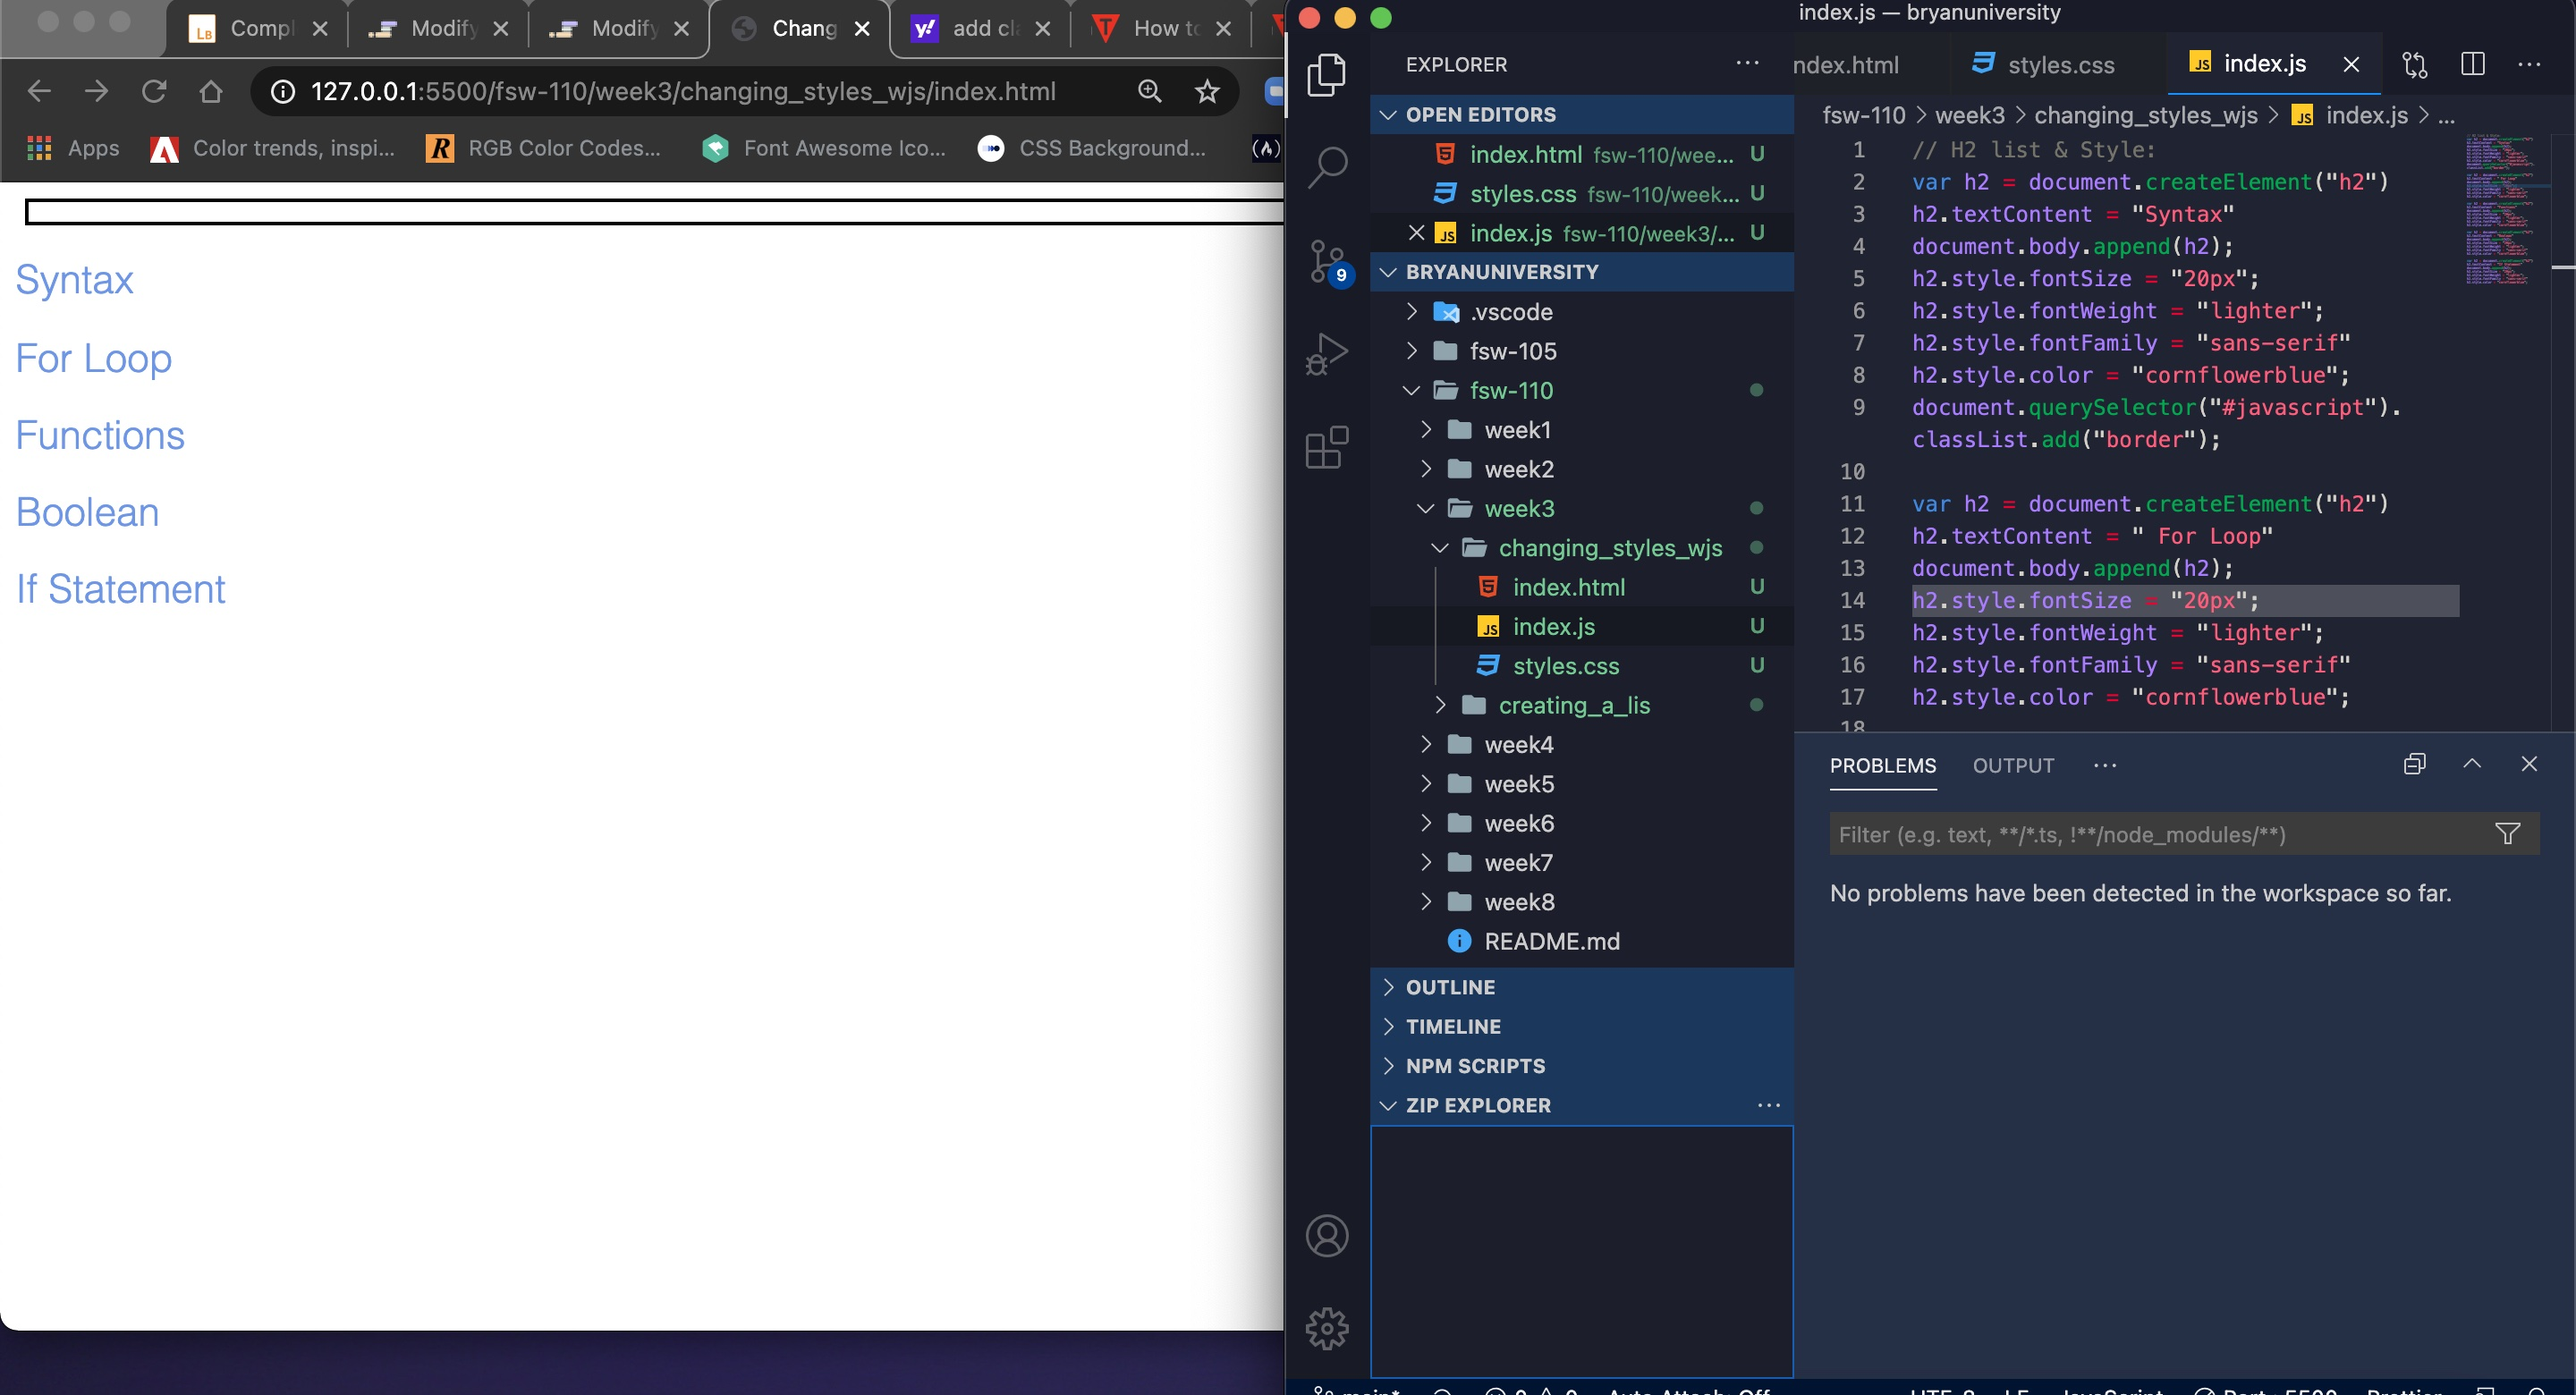
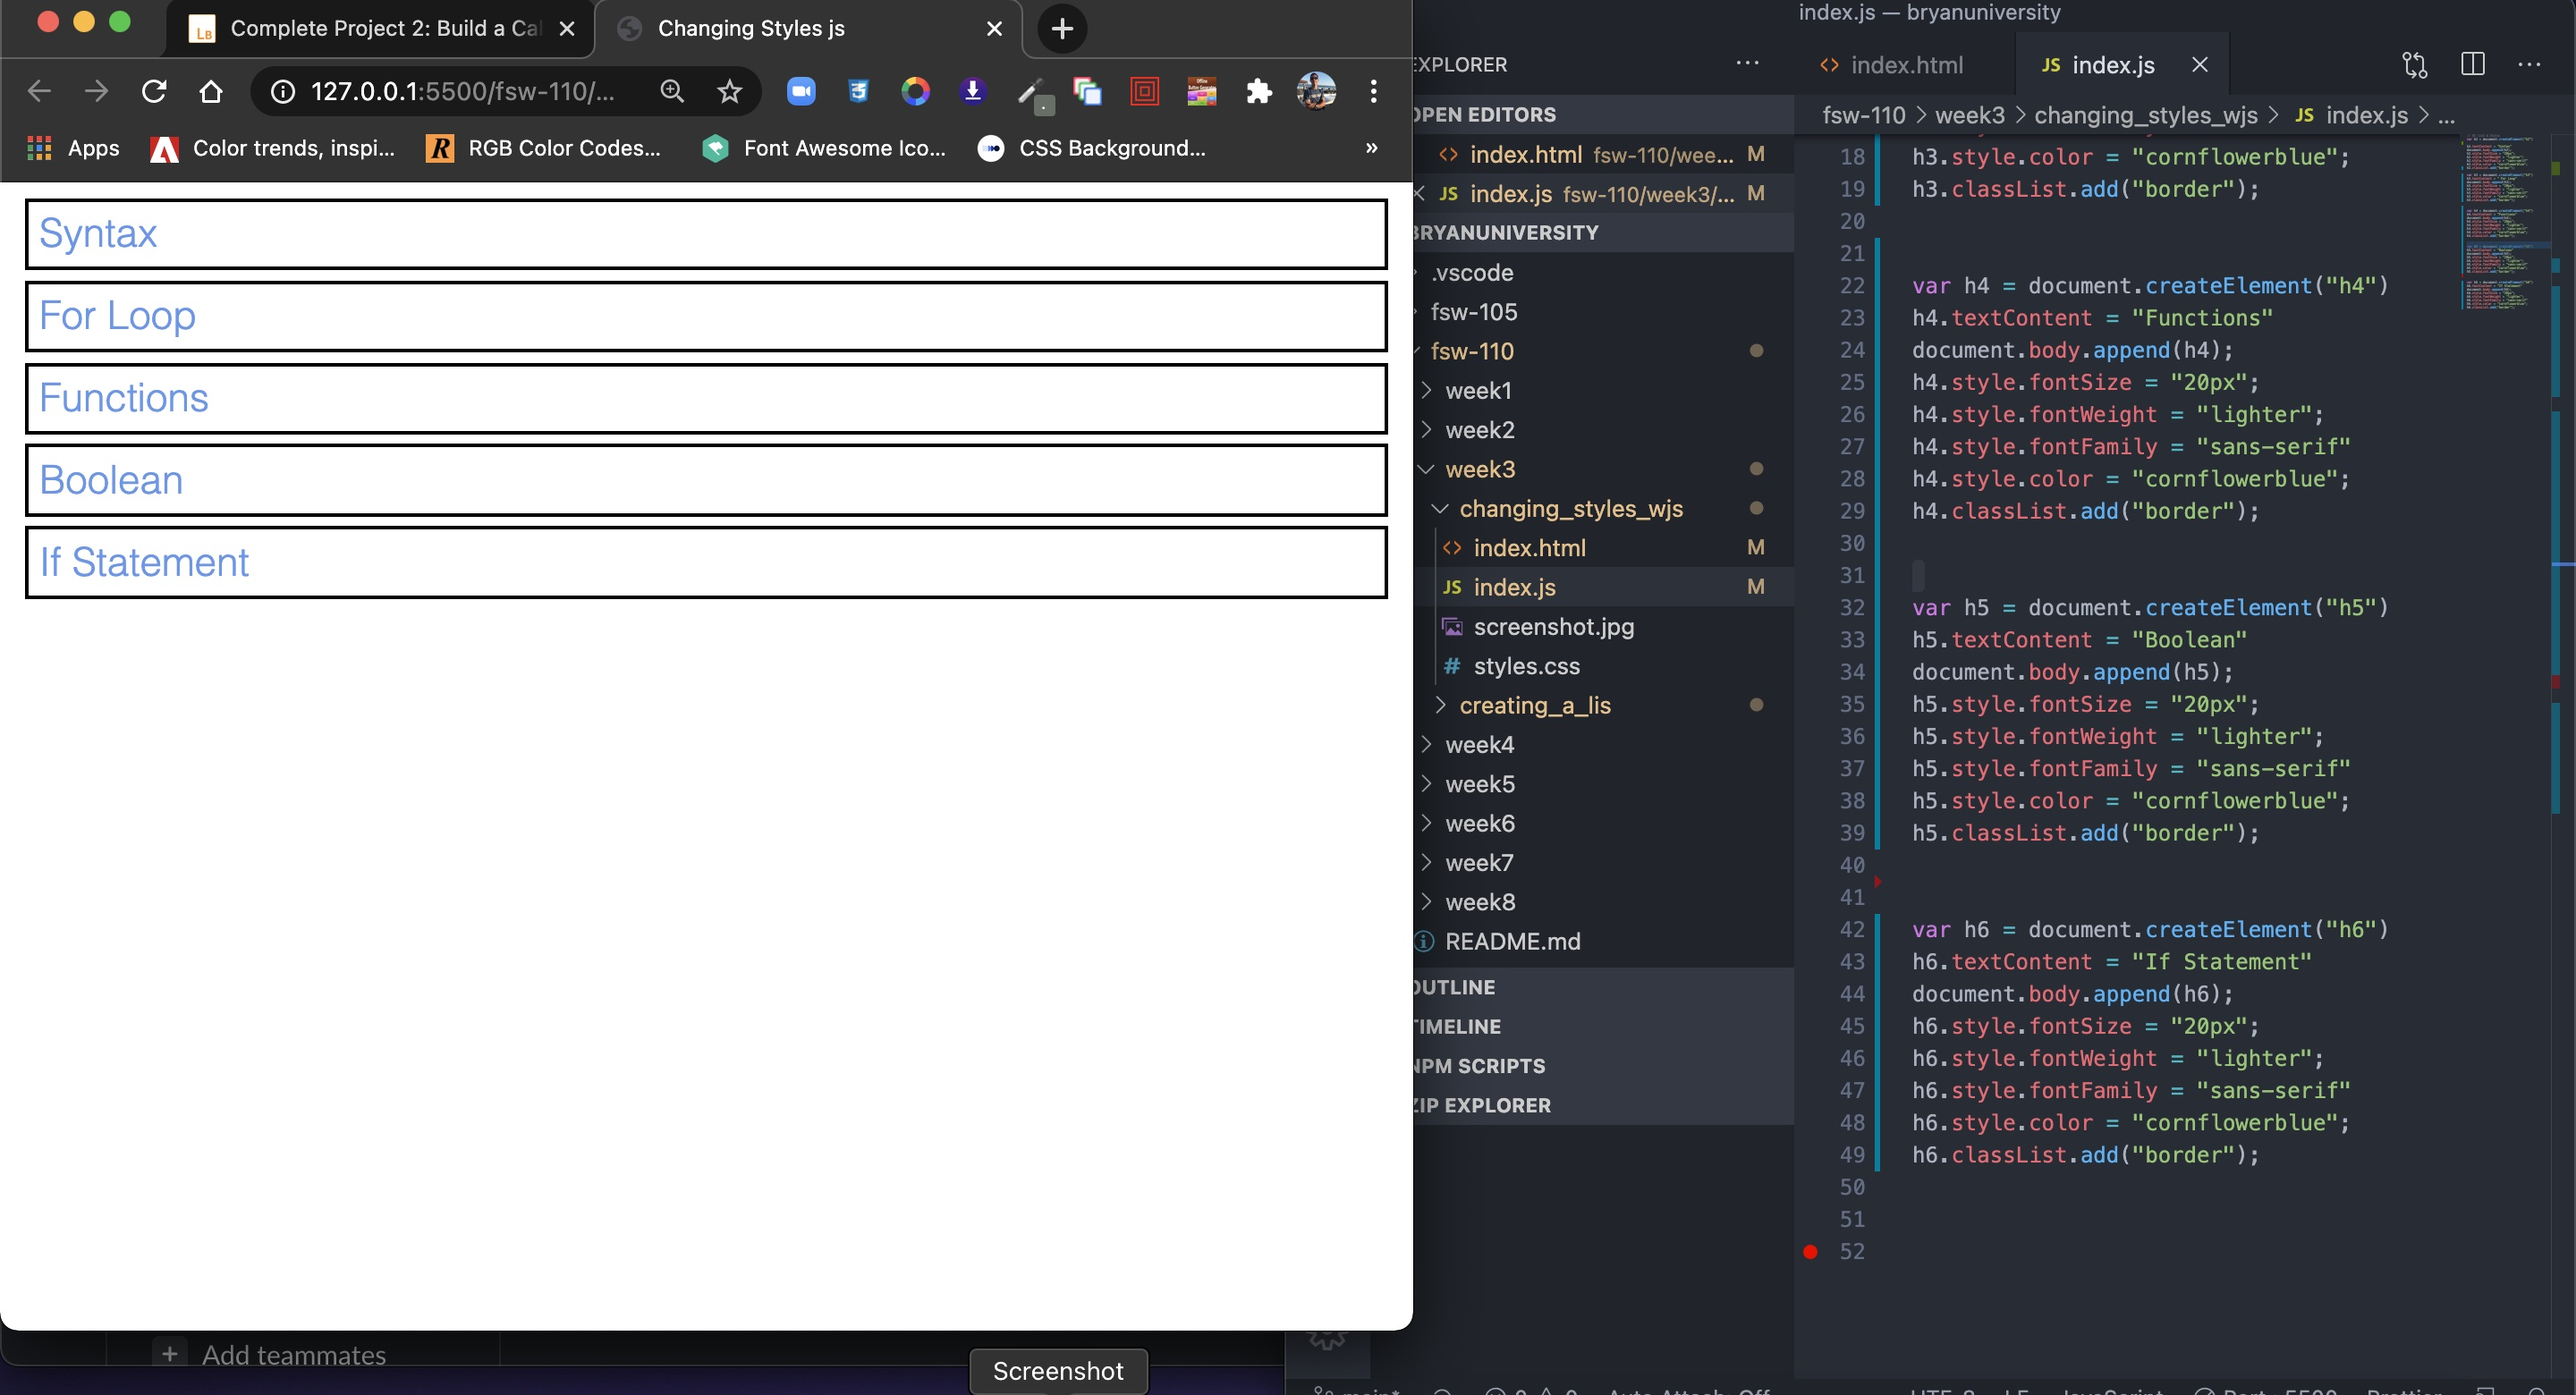
week3 practice

diff --git a/week3/changing_styles_wjs/index.js b/week3/changing_styles_wjs/index.js
@@ -1,43 +1,51 @@
 // H2 list & Style:
 var h2 = document.createElement("h2")
+
 h2.textContent = "Syntax"
 document.body.append(h2);
 h2.style.fontSize = "20px";
 h2.style.fontWeight = "lighter";
 h2.style.fontFamily = "sans-serif"
 h2.style.color = "cornflowerblue";
-document.querySelector("#javascript").classList.add("border");
+h2.classList.add("border");
 
-var h2 = document.createElement("h2")
-h2.textContent = " For Loop"
-document.body.append(h2);
-h2.style.fontSize = "20px";
-h2.style.fontWeight = "lighter";
-h2.style.fontFamily = "sans-serif"
-h2.style.color = "cornflowerblue";
+var h3 = document.createElement("h3")
+h3.textContent = " For Loop"
+document.body.append(h3);
+h3.style.fontSize = "20px";
+h3.style.fontWeight = "lighter";
+h3.style.fontFamily = "sans-serif"
+h3.style.color = "cornflowerblue";
+h3.classList.add("border");
 
-var h2 = document.createElement("h2")
-h2.textContent = "Functions"
-document.body.append(h2);
-h2.style.fontSize = "20px";
-h2.style.fontWeight = "lighter";
-h2.style.fontFamily = "sans-serif"
-h2.style.color = "cornflowerblue";
 
-var h2 = document.createElement("h2")
-h2.textContent = "Boolean"
-document.body.append(h2);
-h2.style.fontSize = "20px";
-h2.style.fontWeight = "lighter";
-h2.style.fontFamily = "sans-serif"
-h2.style.color = "cornflowerblue";
+var h4 = document.createElement("h4")
+h4.textContent = "Functions"
+document.body.append(h4);
+h4.style.fontSize = "20px";
+h4.style.fontWeight = "lighter";
+h4.style.fontFamily = "sans-serif"
+h4.style.color = "cornflowerblue";
+h4.classList.add("border");
 
-var h2 = document.createElement("h2")
-h2.textContent = "If Statement"
-document.body.append(h2);
-h2.style.fontSize = "20px";
-h2.style.fontWeight = "lighter";
-h2.style.fontFamily = "sans-serif"
-h2.style.color = "cornflowerblue";
+
+var h5 = document.createElement("h5")
+h5.textContent = "Boolean"
+document.body.append(h5);
+h5.style.fontSize = "20px";
+h5.style.fontWeight = "lighter";
+h5.style.fontFamily = "sans-serif"
+h5.style.color = "cornflowerblue";
+h5.classList.add("border");
+
+
+var h6 = document.createElement("h6")
+h6.textContent = "If Statement"
+document.body.append(h6);
+h6.style.fontSize = "20px";
+h6.style.fontWeight = "lighter";
+h6.style.fontFamily = "sans-serif"
+h6.style.color = "cornflowerblue";
+h6.classList.add("border");
 
 

diff --git a/week3/creating_a_lis/index.js b/week3/creating_a_lis/index.js
@@ -6,7 +6,7 @@ document.body.append(h1)
 
 //  For Loop ( Repeat):
 
-var i = "Hello World";
+
 for (var i = 0; i < 10; i++)
 {
     var h1 = document.createElement("h1")
@@ -18,7 +18,12 @@ for (var i = 0; i < 10; i++)
 document.body.style.color = "red";
 
 // Create Array loop Thru:
-const names = [" steve", "larry", "joe", "shirley", "steph", "rick", "emily" ]
-for ( const emily of names ){
-    console.log(emily);
+
+
+const names = ["steve", "joe", "shirley","steph", "steph","nate" ,"rick", "emily"]
+
+for(i = 0; i < names.length; i++ ){
+var h1 = document.createElement("h1")
+h1.textContent = names[i]
+document.body.append(h1)
 }

diff --git a/week3/changing_styles_wjs/index.html b/week3/changing_styles_wjs/index.html
@@ -7,7 +7,7 @@
     <link rel ="stylesheet" type ="text/css" href = "styles.css"/>
 </head>
 <body>
-    <h2 id="javascript"></h2>
+    <!-- <h2 id="javascript"></h2> -->
     <script src = "index.js"></script>
 </body>
 </html>

diff --git a/week3/creating_a_lis/index.html b/week3/creating_a_lis/index.html
@@ -5,6 +5,7 @@
     <title>creating-a-lis</title>
 </head>
 <body>
+    
     <script src="index.js"></script>
 </body>
 </html>
